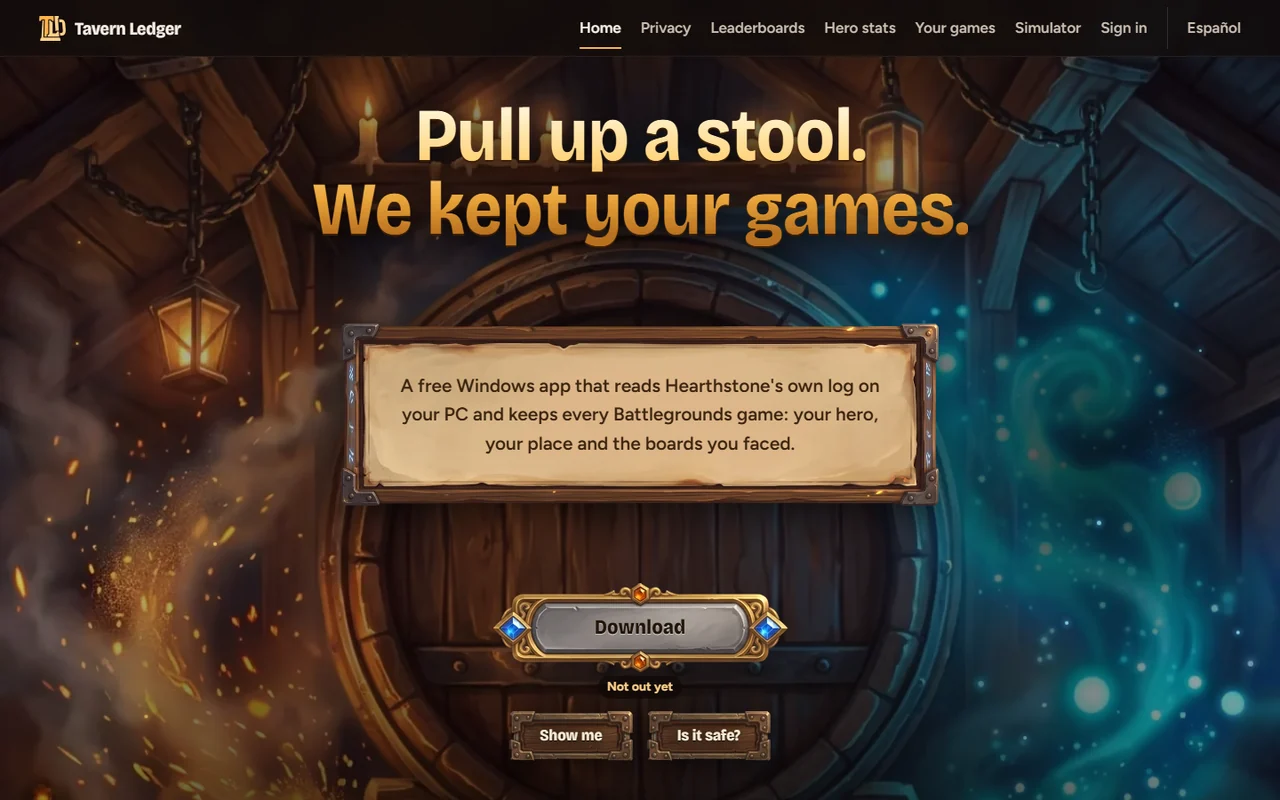
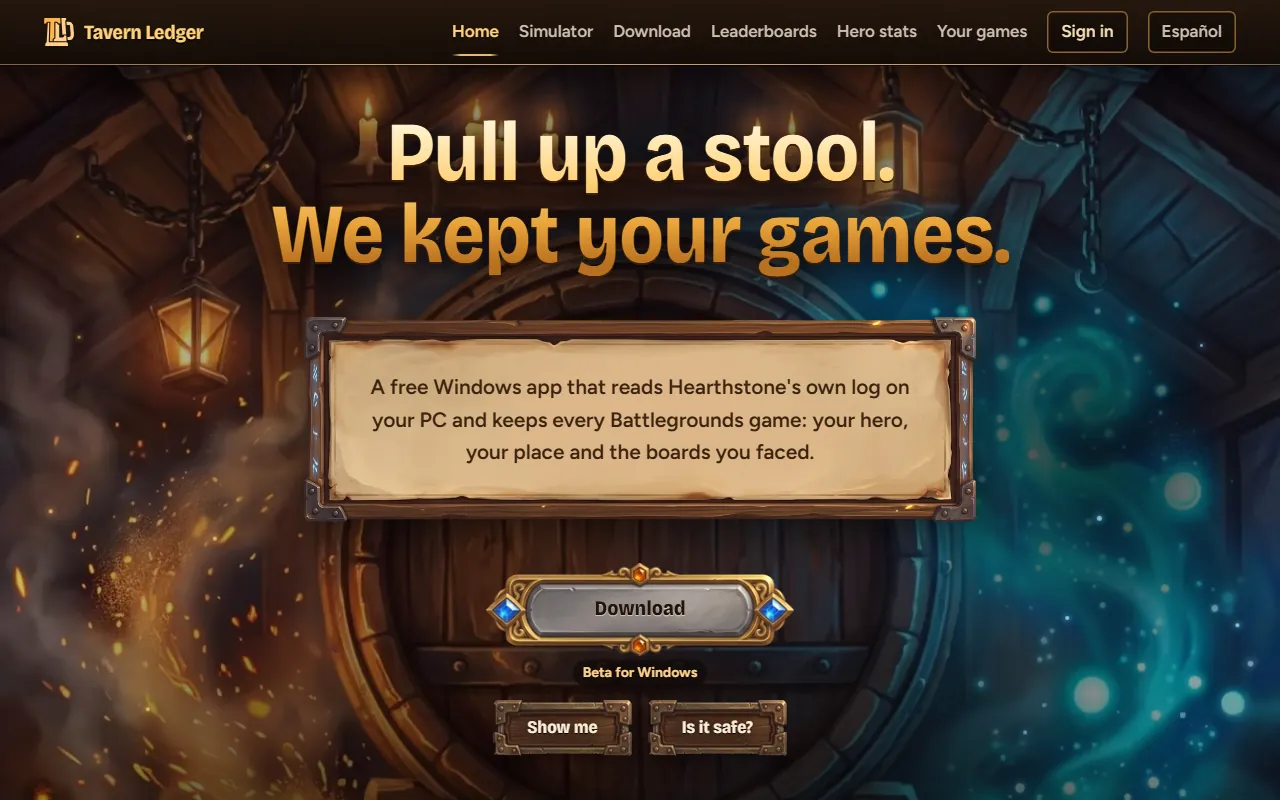
docs: v0.2.1 is the current release; the app updates itself from it
- web/src/lib/site/releases.json: v0.2.1's files, sizes and SHA-256 as
  published on GitHub (tools/release.py facts v0.2.1); the download page
  and the home page's button now offer it, with its signed SHA256SUMS.
- Download page, Updating (EN and ES): from version 0.2.1 the app updates
  itself.
- README: v0.2.1 is the current release and updates itself; the home page
  screenshot retaken from the live site (Download, "Beta for Windows").
- SECURITY.md: 0.2.1 is current; the updater key id and where the public
  key is.
- Tests follow the new facts (version, hash, 7.6 MB, 13 Oct 2026, the
  SHA256SUMS links).

diff --git a/web/test/build/download.test.ts b/web/test/build/download.test.ts
@@ -48,8 +48,8 @@ test("the page shows the release's own facts: version, file, size, day and SHA-2
     assert.match(html, new RegExp(`<dd>${RELEASE.version} \\(beta\\)</dd>`), `${page.file}: version`);
     assert.ok(html.includes(RELEASE.file), `${page.file}: file name`);
     assert.ok(html.includes(RELEASE.sha256), `${page.file}: hash`);
-    assert.match(html, page.lang === "en" ? /6\.5 MB/ : /6,5 MB/, `${page.file}: size`);
-    assert.match(html, page.lang === "en" ? /12 Oct 2026/ : /12 oct 2026/, `${page.file}: day`);
+    assert.match(html, page.lang === "en" ? /7\.6 MB/ : /7,6 MB/, `${page.file}: size`);
+    assert.match(html, page.lang === "en" ? /13 Oct 2026/ : /13 oct 2026/, `${page.file}: day`);
     assert.match(html, /Windows 10 (and|y) 11/, `${page.file}: Windows`);
     // The hash and the command are text, never a link or a script.
     assert.ok(html.includes(`Get-FileHash &quot;${RELEASE.file}&quot;`), `${page.file}: command`);
@@ -117,7 +117,7 @@ test("the menu has a Download link on every page, current on the download page",
   assert.match(read("es/download/index.html"), /<a href="\/es\/download\/" aria-current="page">Descargar<\/a>/);
 });
 
-test("Updating says the app updates itself from 0.2.0, and 0.1.0 is installed over once", () => {
+test("Updating says the app updates itself from 0.2.1, and 0.1.0 is installed over once", () => {
   for (const page of PAGES) {
     const html = read(page.file);
     const start = html.indexOf(page.lang === "en" ? ">Updating<" : ">Actualizar<");
@@ -126,7 +126,7 @@ test("Updating says the app updates itself from 0.2.0, and 0.1.0 is installed ov
     const end = updating.indexOf('<div class="dl-extra">');
     assert.ok(end > 0, `${page.file}: the extra after Updating`);
     const block = updating.slice(0, end);
-    assert.match(block, page.lang === "en" ? /From version 0\.2\.0 the app updates itself/ : /Desde la versión 0\.2\.0 la aplicación se actualiza sola/, page.file);
+    assert.match(block, page.lang === "en" ? /From version 0\.2\.1 the app updates itself/ : /Desde la versión 0\.2\.1 la aplicación se actualiza sola/, page.file);
     assert.match(block, page.lang === "en" ? /version 0\.1\.0/ : /versión 0\.1\.0/, page.file);
     assert.match(block, page.lang === "en" ? /keeps your games and settings/ : /conserva tus partidas y ajustes/, page.file);
     assert.doesNotMatch(block, page.lang === "en" ? /no automatic updates/i : /no hay actualizaciones automáticas/i, page.file);

diff --git a/web/test/unit/release.test.ts b/web/test/unit/release.test.ts
@@ -22,13 +22,14 @@ test("the hash is 64 lower-case hex digits and the date is a day", () => {
 
 test("the size is shown in megabytes with one decimal, the way Windows shows it", () => {
   assert.equal(sizeMb(6_847_192), 6.5);
-  assert.equal(sizeMb(RELEASE.bytes), 6.5);
+  assert.equal(sizeMb(RELEASE.bytes), 7.6);
   assert.ok(RELEASE.bytes > 1_000_000 && RELEASE.bytes < 50_000_000);
 });
 
-test("the facts are those of the published v0.1.0 pre-release", () => {
-  assert.equal(RELEASE.version, "0.1.0");
[1 lines of base64/hex data omitted]
+test("the facts are those of the published v0.2.1 release, with v0.1.0 kept below it", () => {
+  assert.equal(RELEASE.version, "0.2.1");
[1 lines of base64/hex data omitted]
+  assert.deepEqual(releases.map((r) => r.version), ["0.2.1", "0.1.0"]);
 });
 
 test("the facts are the newest release recorded from GitHub, not typed by hand", () => {
@@ -41,6 +42,9 @@ test("the facts are the newest release recorded from GitHub, not typed by hand",
 });
 
 test("the signed list of hashes is linked only for a release that has one", () => {
-  assert.equal(RELEASE.sums, false, "v0.1.0 has no SHA256SUMS");
-  assert.equal(sumsUrls(), null);
+  assert.equal(RELEASE.sums, true, "v0.2.1 has a signed SHA256SUMS");
+  assert.deepEqual(sumsUrls(), {
+    list: "https://github.com/KBroneZ/tavern-ledger/releases/download/v0.2.1/SHA256SUMS",
+    signature: "https://github.com/KBroneZ/tavern-ledger/releases/download/v0.2.1/SHA256SUMS.minisig",
+  });
 });

diff --git a/web/src/lib/download/strings.es.ts b/web/src/lib/download/strings.es.ts
@@ -63,7 +63,7 @@ export const ES: Record<DlKey, string> = {
   "reads.privacy": "Política de privacidad",
   "update.title": "Actualizar",
   "update.short":
-    "Desde la versión 0.2.0 la aplicación se actualiza sola: busca una versión nueva al iniciarse y cada pocas horas, y te pide reiniciar cuando hay una lista.",
+    "Desde la versión 0.2.1 la aplicación se actualiza sola: busca una versión nueva al iniciarse y cada pocas horas, y te pide reiniciar cuando hay una lista.",
   "update.body":
     "Si tienes la versión 0.1.0, instala una vez encima la versión nueva de esta página: sustituye la aplicación y conserva tus partidas y ajustes. Después, las actualizaciones llegan solas, firmadas por el proyecto, y solo se instalan cuando pulsas «Reiniciar ahora». Puedes desactivar la búsqueda en los Ajustes de la aplicación, en Actualizaciones.",
   "remove.title": "Desinstalar",

diff --git a/web/src/lib/download/strings.ts b/web/src/lib/download/strings.ts
@@ -65,7 +65,7 @@ export const DL_STRINGS = {
   "reads.privacy": "Privacy policy",
   "update.title": "Updating",
   "update.short":
-    "From version 0.2.0 the app updates itself: it checks for a new version when it starts and every few hours, and asks you to restart when one is ready.",
+    "From version 0.2.1 the app updates itself: it checks for a new version when it starts and every few hours, and asks you to restart when one is ready.",
   "update.body":
     "If you have version 0.1.0, install the new version from this page over it once: it replaces the app and keeps your games and settings. After that, updates arrive by themselves, signed by the project, and are installed only when you press “Restart now”. You can turn the checks off in the app's Settings, under Updates.",
   "remove.title": "Uninstalling",

diff --git a/README.md b/README.md
@@ -23,7 +23,7 @@
 
 ## Status
 
-- **Desktop app: in beta for Windows.** The first release, [v0.1.0](https://github.com/KBroneZ/tavern-ledger/releases/tag/v0.1.0), is an unsigned installer for beta testers (Windows warns before it runs; the steps are on the [download page](https://tavernledger.net/download/)). There are no automatic updates yet. To build the app or its installer yourself, see [docs/development.md](docs/development.md).
+- **Desktop app: in beta for Windows.** The current release, [v0.2.1](https://github.com/KBroneZ/tavern-ledger/releases/tag/v0.2.1), is an unsigned installer for beta testers (Windows warns before it runs; the steps are on the [download page](https://tavernledger.net/download/)). From this version the app updates itself from the project's signed GitHub releases, and only when you press "Restart now"; if you have v0.1.0, install v0.2.1 over it once (your games and settings stay). To build the app or its installer yourself, see [docs/development.md](docs/development.md).
 - **Website: online at [tavernledger.net](https://tavernledger.net), and you can create an account.** Uploading games needs the desktop app; the combat simulator and its accuracy page work without one.
 
 ## Features
@@ -51,7 +51,7 @@
 - **[Combat simulator](https://tavernledger.net/simulator/)** in your browser: load a fight from one of your games (signed in) or set up both boards yourself and see the odds.
 - English and Spanish.
 
-![The website's home page: a painted tavern with "Pull up a stool. We kept your games." and a Download button marked "Not out yet"](docs/screenshots/web-home.webp)
+![The website's home page: a painted tavern with "Pull up a stool. We kept your games." and a Download button marked "Beta for Windows"](docs/screenshots/web-home.webp)
 
 ![The simulator accuracy page: how often the most likely result was right on real Solo combats, with a predicted-and-real chart](docs/screenshots/web-accuracy.webp)
 

diff --git a/SECURITY.md b/SECURITY.md
@@ -20,4 +20,6 @@ Out of scope: Hearthstone and Blizzard's services (report those to Blizzard), an
 
 ## Versions
 
-Version 0.1.0 (beta) is the current release; see the [releases page](https://github.com/KBroneZ/tavern-ledger/releases). Only the latest release gets fixes. A fix goes to `main` and to the live website first, and reaches the desktop app in the next release.
+Version 0.2.1 (beta) is the current release; see the [releases page](https://github.com/KBroneZ/tavern-ledger/releases). Only the latest release gets fixes. A fix goes to `main` and to the live website first, and reaches the desktop app in the next release, which installed apps from v0.2.1 on download by themselves.
+
+Releases are built and signed by GitHub Actions. The app only installs an update signed by the project's updater key, minisign key id `CC9CE2C7E6CD31F8` (the public key is `plugins.updater.pubkey` in [`crates/desktop/tauri.conf.json`](crates/desktop/tauri.conf.json)); each release's `SHA256SUMS` is signed with the same key. A release that changes this key says so at the top of its notes.
